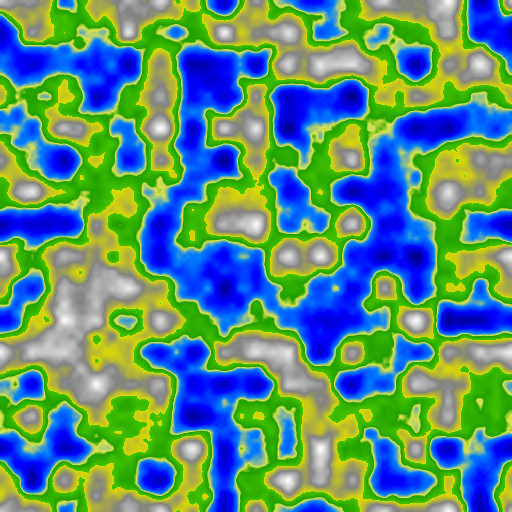
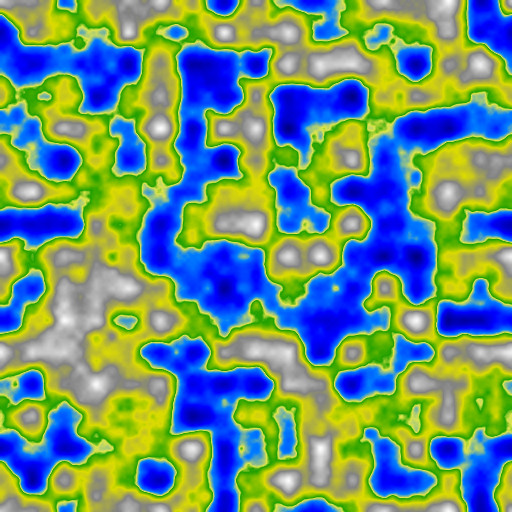
updated perlin noise algorithm

diff --git a/src/lib/src/craft_random.cpp b/src/lib/src/craft_random.cpp
@@ -284,6 +284,7 @@ namespace CRAFT {
 					 * 0.4625	{225, 230, 75}
 					 * 0.485	{32, 160, 0}
 					 * 0.6		{220, 220, 0}
+
 					 * 0.75		{130, 130, 130}
 					 * 1		{255, 255, 255}
 					 */
@@ -301,8 +302,8 @@ namespace CRAFT {
 							<< (uint32_t) (230.0 - ((230.0 - 160.0) * ((value - 0.4625) / 0.0225))) << " "
 							<< (uint32_t) (75.0 - (75.0 * ((value - 0.4625) / 0.0225)));
 					} else if(value < 0.6) {
-						stream << (uint32_t) (((255.0 - 220.0) * ((value - 0.485) / 0.115)) + 32.0) << " "
-							<< (uint32_t) (((255.0 - 220.0) * ((value - 0.485) / 0.115)) + 160.0) << " 0";
+						stream << (uint32_t) (((220.0 - 32.0) * ((value - 0.485) / 0.115)) + 32.0) << " "
+							<< (uint32_t) (((220.0 - 160.0) * ((value - 0.485) / 0.115)) + 160.0) << " 0";
 					} else if(value < 0.75) {
 						stream << (uint32_t) (220.0 - ((220.0 - 130.0) * ((value - 0.6) / 0.15))) << " "
 							<< (uint32_t) (220.0 - ((220.0 - 130.0) * ((value - 0.6) / 0.15))) << " "
